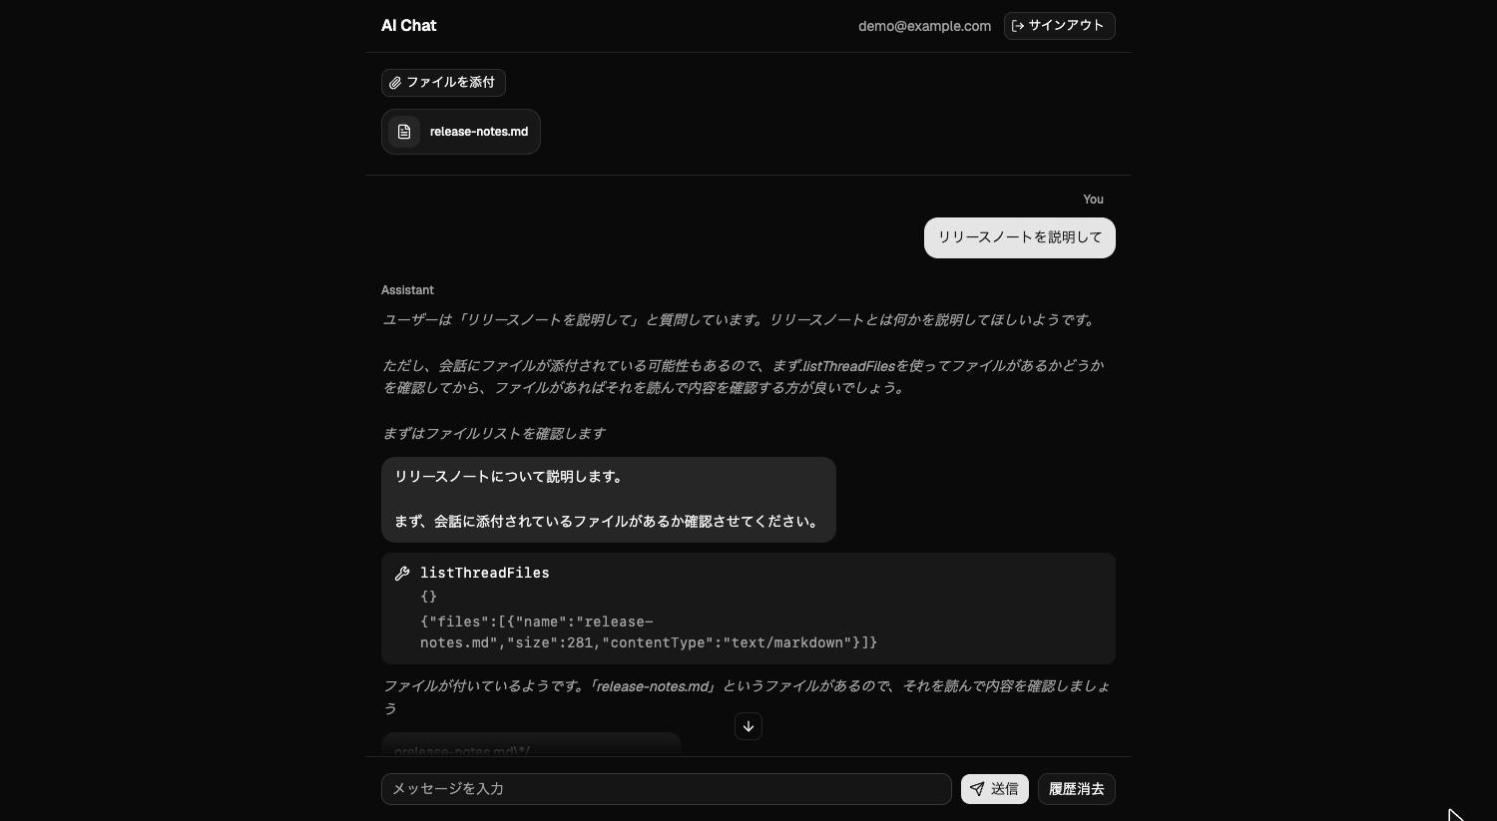
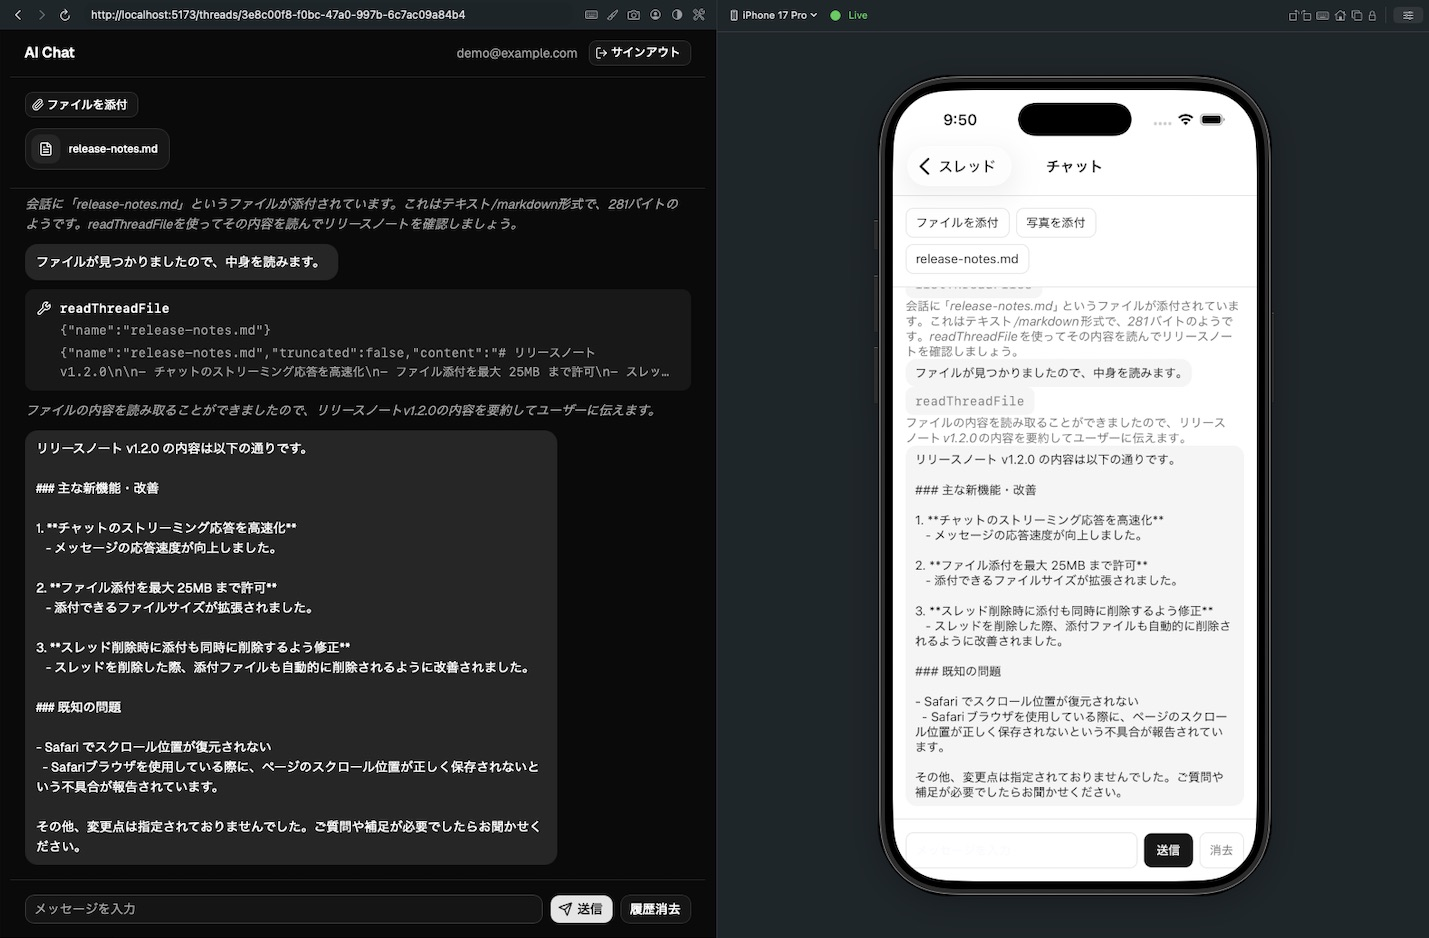
docs: README のスクリーンショットを差し替え
web と iOS シミュレータを並べた画面に更新し、alt テキストも実際に
呼ばれているツール名（readThreadFile）に合わせる。

Claude-Session: https://claude.ai/code/session_01NsdbBaJrgNzdtb3Z37bs8i

diff --git a/README.md b/README.md
@@ -9,7 +9,7 @@ Cloudflare だけで組んだエージェンティックチャット。Workers /
 - 会話履歴は **`ChatAgent`（Durable Object）内蔵の SQLite**。D1 にメッセージテーブルは無い
 - ファイルは **R2**。Hono がアップロード用エンドポイントを発行する
 
-![スレッド画面。添付した release-notes.md について質問すると、エージェントが listThreadFiles ツールを呼んでから回答する](docs/screenshot.jpg)
+![左が web、右が iOS シミュレータのスレッド画面。添付した release-notes.md について質問すると、エージェントが readThreadFile ツールを呼んでから回答する](docs/screenshot.jpg)
 
 ## Getting Started
 
